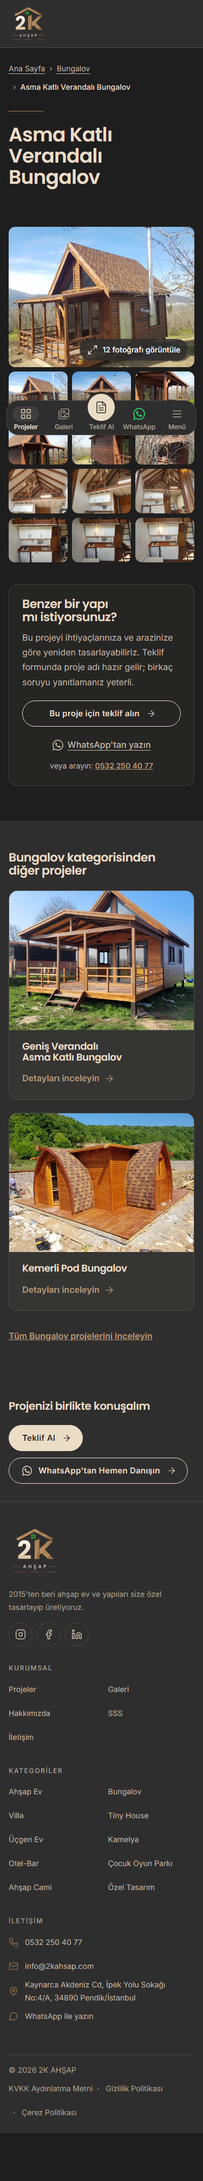
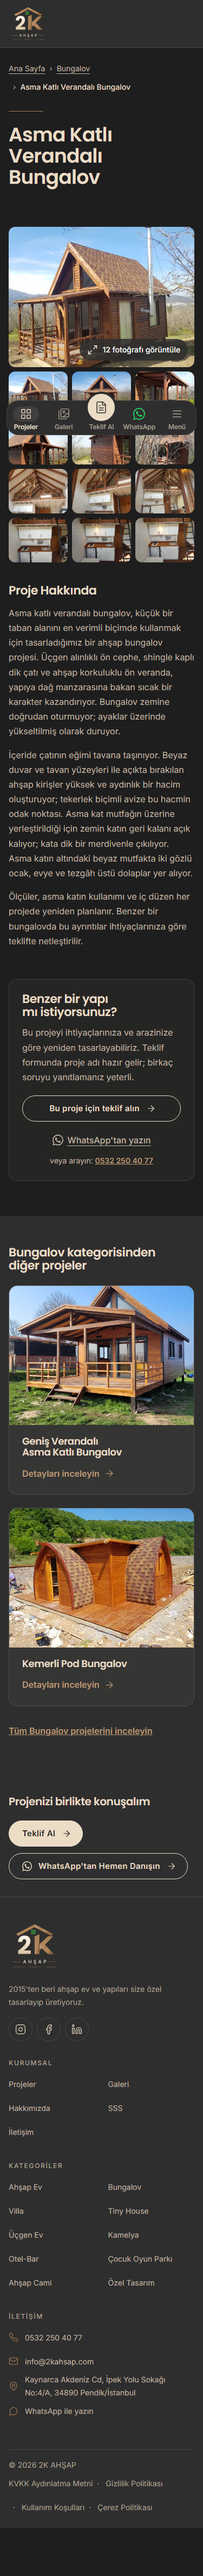
Poppins 600 önceden yüklenir: hero başlığı yazı tipi gelince kaymaz; proje detayı referansı yenilendi
- Layout: inter-v20-latin'in yanına poppins-v24-600-latin ve -latin-ext preload (13,5 KB).
  Alttan yaslı hero başlığı Poppins geç gelince satır değiştirip ~38 px kayıyordu.
  CLS (Chromium, CPU 4x, 375x812 / 390x664 / 412x787, ilk ve dönen ziyaret, 6'şar tur):
  önce 36 turun 6'sında 0,034–0,036; sonra 36 turun hepsinde 0.
- marka-stili: preload edilen dosyalar güncellendi.
- Proje detayı (D) görsel referansı yenilendi: "Proje Hakkında" bölümü ve yan teklif kutusu
  (kullanıcı onayı). Tam görsel test: 48 çekimin hepsi referansla aynı.

diff --git a/.claude/skills/marka-stili/SKILL.md b/.claude/skills/marka-stili/SKILL.md
@@ -100,7 +100,7 @@ En kötü durum, antrasit bölümdeki kart yüzeyidir (≈ `#363534`).
 Fontlar sitenin kendi dosyalarıdır (14 Ekim 2026'dan beri); Google Fonts'a bağlantı eklenmez (ziyaretçinin IP adresi Google'a gitmez, sayfa daha hızlı açılır):
 
 - Dosyalar `public/fonts/` içinde: Google Fonts'un verdiği woff2 dosyalarının aynısı, adında sürüm var (`inter-v20-latin.woff2`, `poppins-v24-600-latin.woff2` …). Sürüm değişmeden dosya değiştirilmez; `/fonts/` uzun süre önbellekte tutulur (`vercel.json`).
-- `@font-face` kuralları `src/styles/fontlar.css` içinde (`font-display: swap`, alt kümeler `unicode-range` ile); `Layout.astro` içe aktarır ve `inter-v20-latin.woff2` dosyasını `preload` eder.
+- `@font-face` kuralları `src/styles/fontlar.css` içinde (`font-display: swap`, alt kümeler `unicode-range` ile); `Layout.astro` içe aktarır ve `inter-v20-latin.woff2` ile başlık fontunu (`poppins-v24-600-latin.woff2`, `poppins-v24-600-latin-ext.woff2`) `preload` eder.
 - Inter'in yedeği `'Inter Yedek'` (Arial) ve `'Inter Yedek Roboto'`: `size-adjust` ile "0" genişliği Inter'e eşitlenmiştir. Metin sütunları `ch` ile sınırlı olduğu için Inter geç gelse de sütun genişliği değişmez. Font değişirse bu ölçüler yeniden hesaplanır (yöntem dosyanın başında).
 
 ```css
